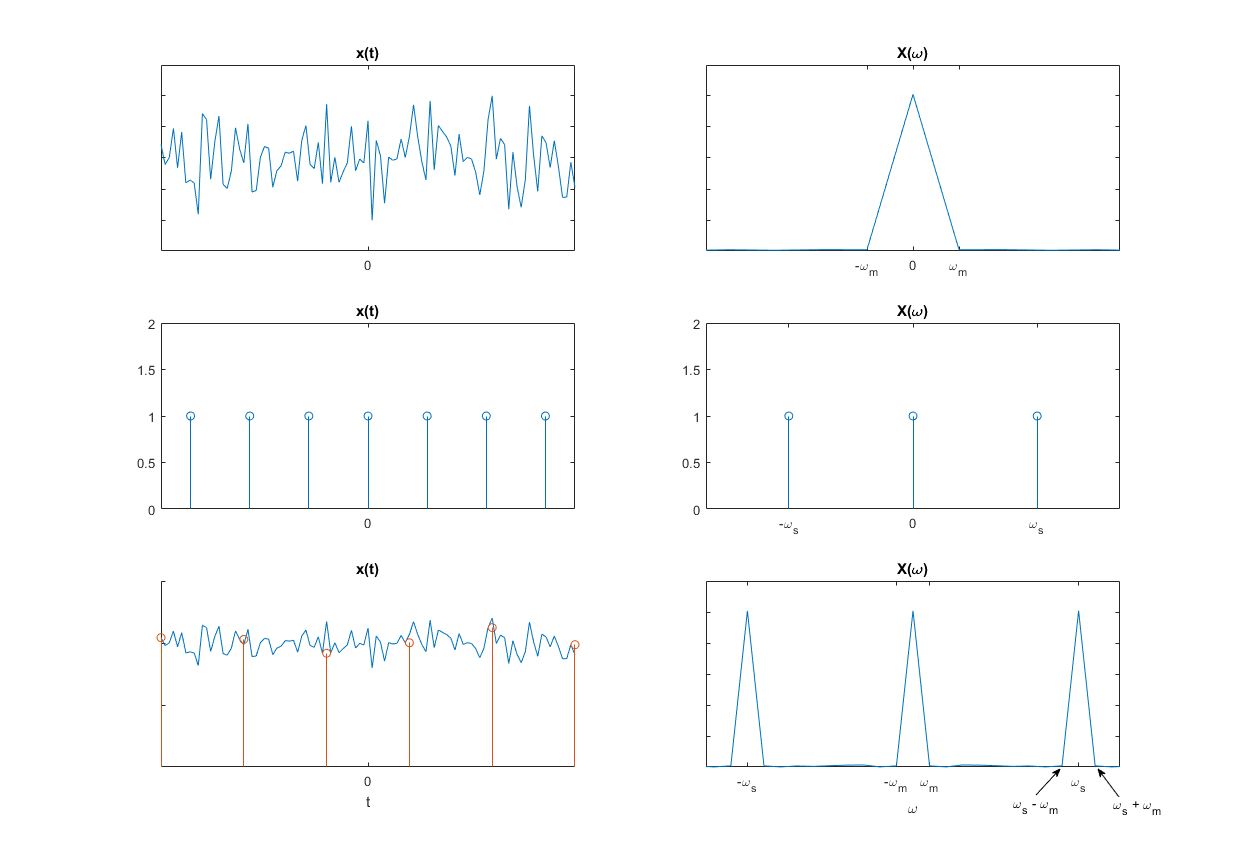
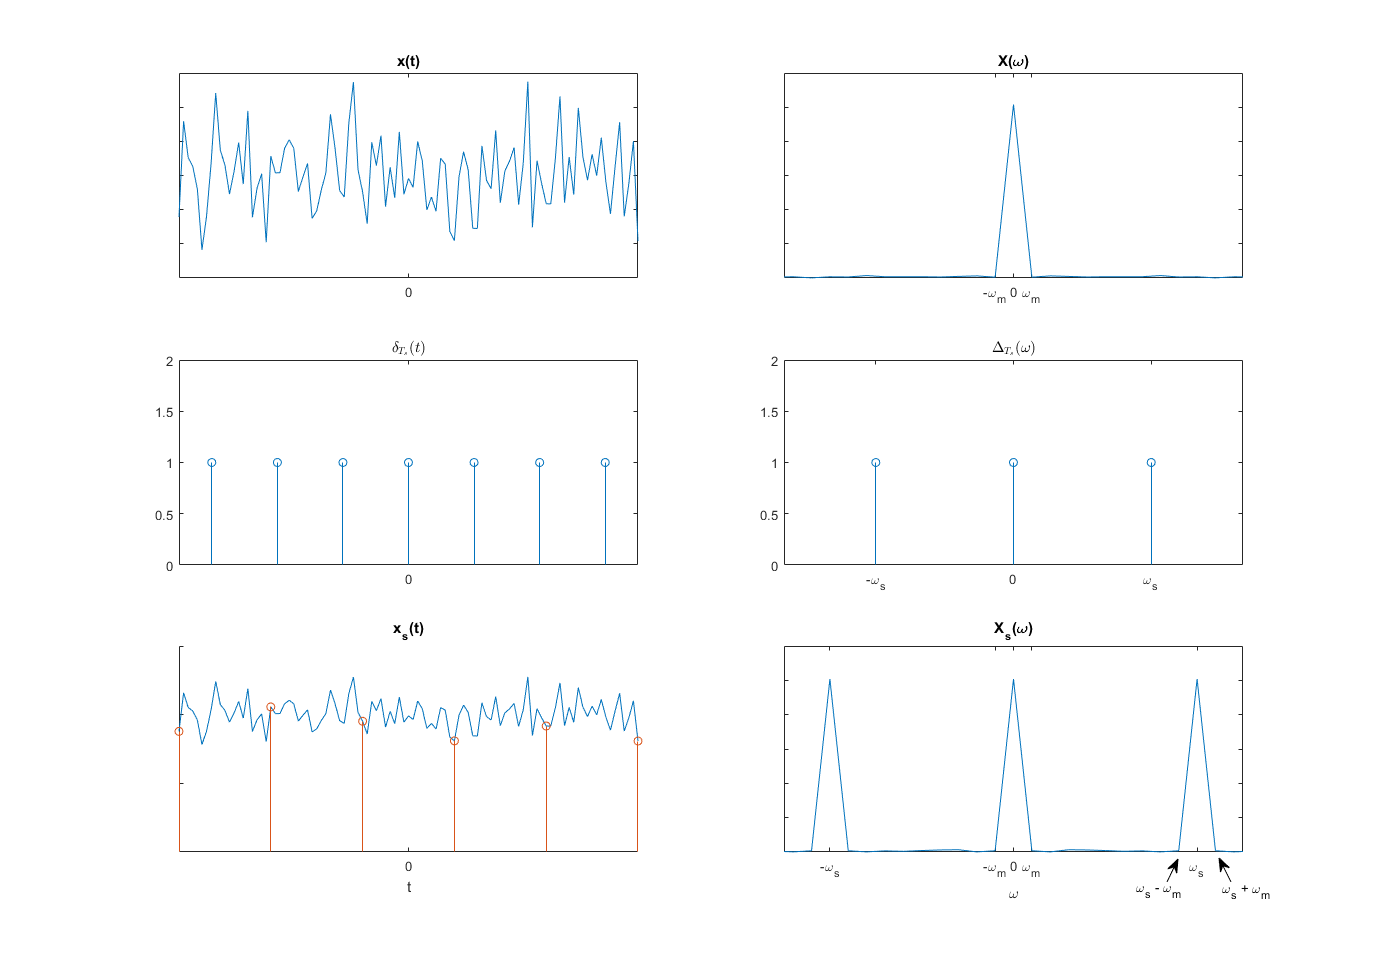
Updated FT plot for lecture 8

diff --git a/lecture8/figures.m b/lecture8/figures.m
@@ -30,7 +30,7 @@ set(gca, 'YTickLabel',{})
 set(gca, 'XTick', [0 ],'XTickLabel',{'0'})
 subplot(3,2,2)
 plot(linspace(-10,10,length(magx1)),magx1)
-xlim([-.9 .9])
+xlim([-2.5 2.5])
 set(gca, 'XTick', [-.2 0 .2],'XTickLabel',{'-\omega_m', '0', '\omega_m'})
 set(gca, 'YTickLabel',{})
 title('X(\omega)')
@@ -41,7 +41,7 @@ subplot(3,2,3)
 stem(x2,y2)
 fftx2=fft(y2);
 magx2=fftshift(abs(fftx2))
-title('x(t)')
+title('$$\delta_{T_s}(t)$$','interpreter','latex')
 ylim([0 2])
 xlim([-3.5 3.5])
 set(gca, 'XTick', [0 ],'XTickLabel',{'0'})
@@ -54,13 +54,13 @@ xlim([-5 5])
 set(gca, 'XTick', [-3 0 3],'XTickLabel',{'-\omega_s', '0', '\omega_s'})
 % set(gca, 'YTickLabel',{})
 ylim([0 2])
-title('X(\omega)')
+title('$$\Delta_{T_s}(\omega)$$','interpreter','latex')
 
 % x1=-5:.1:5;
 % y1=awgn(ones(1, length(x1)), 10);
 x1sample=linspace(-5,5,6);
 
-y1sample=[y1(1) y1(20) y1(40) y1(60) y1(80) y1(100)];
+y1sample=[y1(1) y1(21) y1(41) y1(61) y1(81) y1(101)];
 subplot(3,2,5)
 
 hold on
@@ -68,15 +68,15 @@ plot(x1,y1)
 stem(x1sample, y1sample)
 fftx1=fft(y1);
 magx1=[0.269988016701518,0.158216120871190,1.87283489215076,1.10973425600810,0.374549873310637,0.963911702279940,0.766108454063297,0.141041347739805,0.650161335487000,0.795412910467717,1.12174681010299,0.225436408904242,0.314509322547159,1.28680607742369,0.887701425250347,0.772949026092142,0.819453308538479,1.18270073108834,1.81061408440612,0.565763200524473,0.421160690716082,0.823801040153088,0.424404319094880,0.534693875919970,0.835109559368012,0.523441384461972,0.424189821437213,0.864925416159054,0.0697853438243827,0.726233138217219,100.739991322854,0.726233138217219,0.0697853438243827,0.894357254409702,0.585182071455234,1.55080172985960,0.539537422548252,0.524356958520812,0.0697853438243827,0.726233138217219,100.739991322854,0.726233138217219,0.0697853438243827,0.655815965011684,0.394628923477207,0.851571269610748,1.18839681796707,1.31847820332786,0.0697853438243827,0.726233138217219,100.739991322854,0.726233138217219,0.0697853438243827,1.31847820332786,1.18839681796707,0.851571269610748,0.394628923477207,0.655815965011684,0.0697853438243827,0.726233138217219,100.739991322854,0.726233138217219,0.0697853438243827,0.524356958520812,0.539537422548252,1.55080172985960,0.585182071455234,0.894357254409702,0.0697853438243827,0.726233138217219,100.739991322854,0.726233138217219,0.0697853438243827,0.864925416159054,0.424189821437213,0.523441384461972,0.835109559368012,0.534693875919970,0.424404319094880,0.823801040153088,0.421160690716082,0.565763200524473,1.81061408440612,1.18270073108834,0.819453308538479,0.772949026092142,0.887701425250347,1.28680607742369,0.314509322547159,0.225436408904242,1.12174681010299,0.795412910467717,0.650161335487000,0.141041347739805,0.766108454063297,0.963911702279940,0.374549873310637,1.10973425600810,1.87283489215076,0.158216120871190,0.269988016701518];
-title('x(t)')
+title('x_s(t)')
 xlabel('t')
 set(gca, 'YTickLabel',{})
 set(gca, 'XTick', [0 ],'XTickLabel',{'0'})
 subplot(3,2,6)
 plot(linspace(-10,10,length(magx1)),magx1)
 xlim([-2.5 2.5])
-set(gca, 'XTick', [-2 -.2  .2 2],'XTickLabel',{'-\omega_s',  '-\omega_m', '\omega_m',  '\omega_s'})
+set(gca, 'XTick', [-2 -.2 0 .2 2],'XTickLabel',{'-\omega_s',  '-\omega_m', '0', '\omega_m',  '\omega_s'})
 set(gca, 'YTickLabel',{})
-title('X(\omega)')
+title('X_s(\omega)')
 xlabel('\omega')
 
